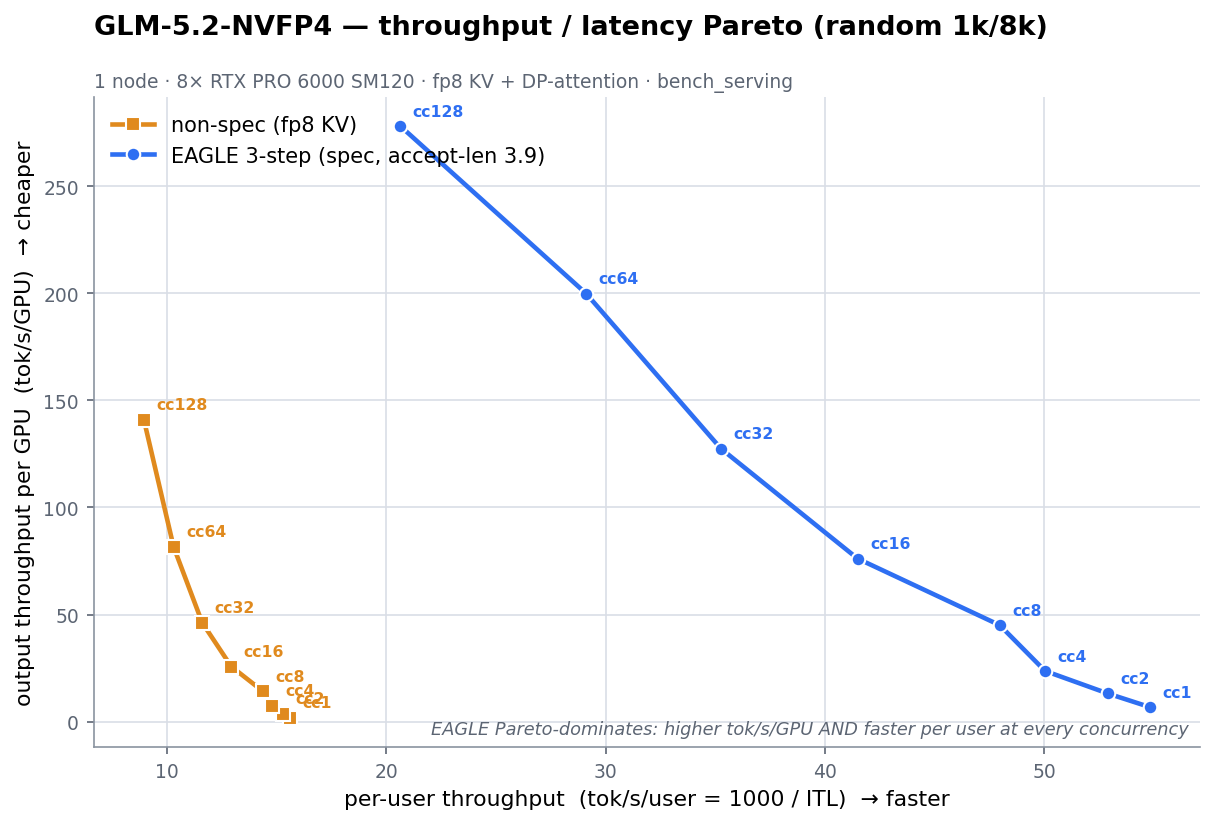
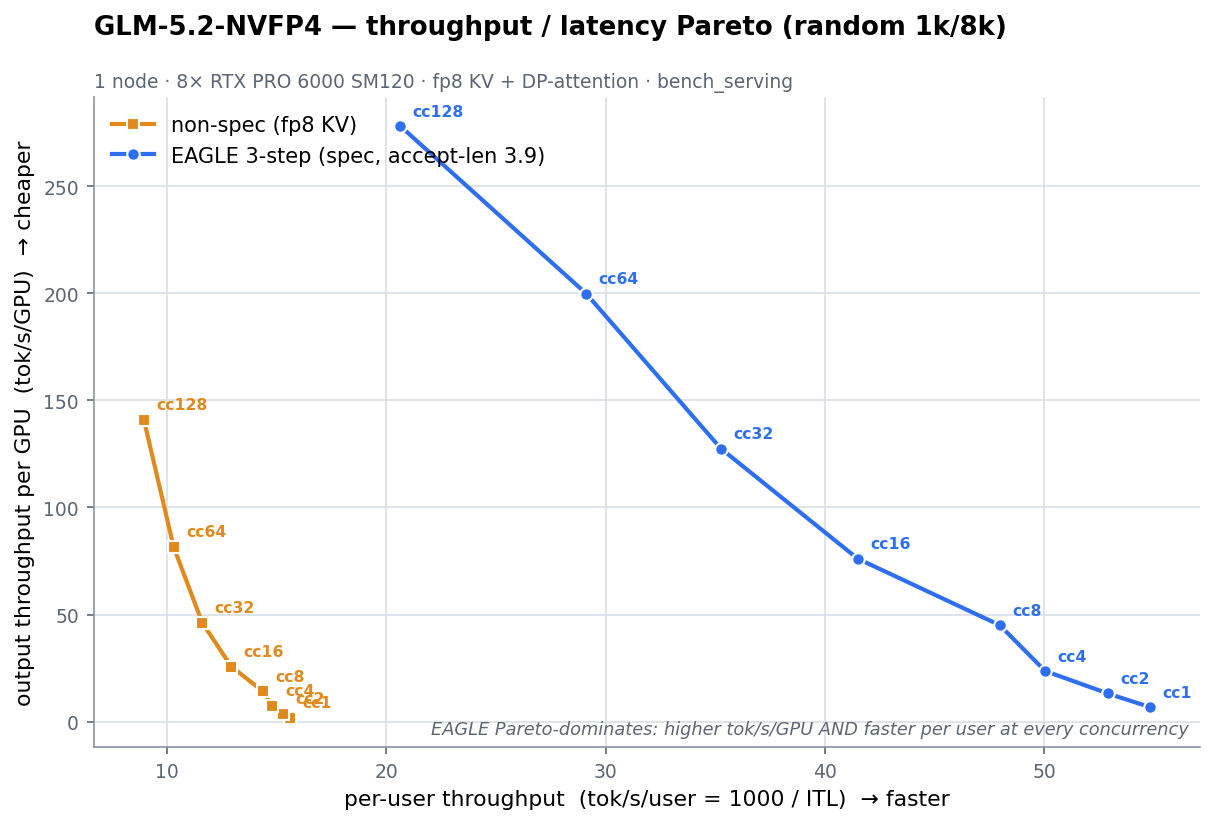
models/GLM5.2: complete the zipfian 2x2 — add EAGLE+HiCache curve + hit-rate panel
The missing 4th curve (EAGLE 3-step + L2 HiCache, zipfian) is now collected (node-4,
10/10 cc rows, no OOM). Full {non-spec, EAGLE} x {radix-L1, +HiCache} sweep.

Finding: L2 HiCache barely shifts throughput (decode-bound at OSL=8192) but lifts the
prefix hit-rate where L1 evicts under load — EAGLE +19 pts (36%->55%) at cc256/512,
non-spec +6 pts. radix L1 suffices for 1k/8k; L2 only helps if the distinct-prefix
working set overflows the GPU radix tree.

Adds hitrate_zipfian_1k8k.png; updates pareto_zipfian_1k8k.png to 4 curves; plot_pareto.py,
concurrency-sweep.md (EAGLE+HiCache table + hit-rate analysis), README HiCache takeaway.

diff --git a/models/GLM5.2/results/plot_pareto.py b/models/GLM5.2/results/plot_pareto.py
@@ -11,7 +11,6 @@ import matplotlib.pyplot as plt
 
 SPEC = "#2E6FF2"   # EAGLE (speculative)
 BASE = "#E08A1E"   # non-spec
-HC   = "#1FA88F"   # +HiCache
 GRID = "#D9DEE6"
 
 def tsu(itl):  # tokens/s/user from mean ITL (ms)
@@ -24,58 +23,83 @@ NS_ITL = [64.16,65.43,67.58,69.71,77.41,86.26,97.22,112.0]
 EA_T   = [6.83,13.17,23.68,45.02,76.13,127.45,199.79,277.97]
 EA_ITL = [18.24,18.90,19.98,20.84,24.10,28.36,34.35,48.47]
 
-# ---- Zipfian shared-prefix, cc 1..512 ----
-Z_CC    = [1,2,4,8,16,32,64,128,256,512]
-ZNS_T   = [2.37,4.62,8.13,17.54,31.21,56.17,98.92,132.73,145.25,166.34]
-ZNS_ITL = [52.76,54.04,55.40,56.86,63.84,70.90,80.31,91.88,136.52,160.05]
-ZHC_T   = [2.36,4.60,8.10,17.53,31.58,57.52,99.30,133.45,147.15,171.09]
-ZHC_ITL = [52.88,54.27,55.61,56.87,63.05,69.20,79.97,92.10,135.59,157.41]
-ZEA_T   = [8.1,14.69,27.1,53.79,90.08,157.2,142.03,128.75,125.93,121.31]
-ZEA_ITL = [15.31,16.58,16.82,16.98,19.98,23.84,42.16,73.75,124.46,140.68]
+# ---- Zipfian shared-prefix, cc 1..512 (4 curves: {non-spec, EAGLE} x {radix-L1, +L2 HiCache}) ----
+Z_CC     = [1,2,4,8,16,32,64,128,256,512]
+ZNS_T    = [2.37,4.62,8.13,17.54,31.21,56.17,98.92,132.73,145.25,166.34]
+ZNS_ITL  = [52.76,54.04,55.40,56.86,63.84,70.90,80.31,91.88,136.52,160.05]
+ZNS_HIT  = [55.8,14.0,28.2,28.0,31.5,42.0,44.2,46.0,57.1,60.1]
+ZHC_T    = [2.36,4.60,8.10,17.53,31.58,57.52,99.30,133.45,147.15,171.09]
+ZHC_ITL  = [52.88,54.27,55.61,56.87,63.05,69.20,79.97,92.10,135.59,157.41]
+ZHC_HIT  = [0.0,14.07,28.04,28.07,31.21,42.0,44.21,46.93,64.41,65.87]
+ZEA_T    = [8.1,14.69,27.1,53.79,90.08,157.2,142.03,128.75,125.93,121.31]
+ZEA_ITL  = [15.31,16.58,16.82,16.98,19.98,23.84,42.16,73.75,124.46,140.68]
+ZEA_HIT  = [0.0,14.0,28.2,28.1,31.4,36.0,35.5,37.4,36.2,36.6]
+ZEAH_T   = [7.97,15.91,27.16,56.09,99.57,132.18,141.06,137.86,125.50,127.33]
+ZEAH_ITL = [15.57,15.58,16.50,16.97,19.09,25.26,41.06,67.49,123.67,134.53]
+ZEAH_HIT = [0.0,13.98,27.96,27.89,31.49,42.16,43.07,42.58,55.66,54.83]
 
-def style(ax, title, sub):
+def style(ax, title, sub, xlabel, ylabel):
     ax.set_facecolor("white")
     ax.grid(True, color=GRID, lw=0.8, zorder=0)
     for s in ("top","right"): ax.spines[s].set_visible(False)
     for s in ("left","bottom"): ax.spines[s].set_color("#8A93A0")
-    ax.set_xlabel("per-user throughput  (tok/s/user = 1000 / ITL)  → faster", fontsize=10.5)
-    ax.set_ylabel("output throughput per GPU  (tok/s/GPU)  → cheaper", fontsize=10.5)
-    ax.set_title(title, fontsize=13, fontweight="bold", loc="left", pad=30)
+    ax.set_xlabel(xlabel, fontsize=10.5)
+    ax.set_ylabel(ylabel, fontsize=10.5)
+    ax.set_title(title, fontsize=12.5, fontweight="bold", loc="left", pad=30)
     ax.text(0, 1.015, sub, transform=ax.transAxes, fontsize=9, color="#5C6573")
     ax.tick_params(colors="#5C6573", labelsize=9)
 
 def curve(ax, x, y, cc, color, label, marker="o", ls="-", lbl_idx=None):
-    ax.plot(x, y, ls=ls, color=color, lw=2.2, marker=marker, ms=6.5, mfc=color,
+    ax.plot(x, y, ls=ls, color=color, lw=2.0, marker=marker, ms=6.0, mfc=color,
             mec="white", mew=1.0, label=label, zorder=4)
     if lbl_idx is None: lbl_idx = range(len(cc))
     for i in lbl_idx:
         ax.annotate(f"cc{cc[i]}", (x[i], y[i]), textcoords="offset points",
                     xytext=(6,5), fontsize=7.5, color=color, fontweight="bold")
 
+XL = "per-user throughput  (tok/s/user = 1000 / ITL)  → faster"
+YL = "output throughput per GPU  (tok/s/GPU)  → cheaper"
+
 # ===== Figure 1: random 1k/8k — non-spec vs EAGLE =====
 fig, ax = plt.subplots(figsize=(8.2,5.6), dpi=150)
 style(ax, "GLM-5.2-NVFP4 — throughput / latency Pareto (random 1k/8k)",
-      "1 node · 8× RTX PRO 6000 SM120 · fp8 KV + DP-attention · bench_serving")
+      "1 node · 8× RTX PRO 6000 SM120 · fp8 KV + DP-attention · bench_serving", XL, YL)
 curve(ax, tsu(NS_ITL), NS_T, R_CC, BASE, "non-spec (fp8 KV)", marker="s")
 curve(ax, tsu(EA_ITL), EA_T, R_CC, SPEC, "EAGLE 3-step (spec, accept-len 3.9)", marker="o")
 ax.legend(loc="upper left", frameon=False, fontsize=10)
 ax.text(0.99, 0.02, "EAGLE Pareto-dominates: higher tok/s/GPU AND faster per user at every concurrency",
         transform=ax.transAxes, ha="right", fontsize=8.5, color="#5C6573", style="italic")
-fig.tight_layout()
-fig.savefig("pareto_random_1k8k.png", bbox_inches="tight", facecolor="white")
+fig.tight_layout(); fig.savefig("pareto_random_1k8k.png", bbox_inches="tight", facecolor="white")
 print("wrote pareto_random_1k8k.png")
 
-# ===== Figure 2: zipfian shared-prefix — radix vs +HiCache vs EAGLE =====
+# ===== Figure 2: zipfian shared-prefix — 4 curves (paired by config color, cache = solid/dashed) =====
 fig, ax = plt.subplots(figsize=(8.2,5.6), dpi=150)
-style(ax, "GLM-5.2-NVFP4 — Pareto on zipfian shared-prefix (radix vs +HiCache)",
-      "1 node · SM120 · zipf α=1.1 · mfs0.92 · cc 1→512 · bench_serving")
-lab = [0,3,5,7,9]  # label cc 1,8,32,128,512
-curve(ax, tsu(ZNS_ITL), ZNS_T, Z_CC, BASE, "non-spec · radix L1 only", marker="s", lbl_idx=lab)
-curve(ax, tsu(ZHC_ITL), ZHC_T, Z_CC, HC,   "non-spec · + L2 HiCache", marker="^", ls="--", lbl_idx=[9])
-curve(ax, tsu(ZEA_ITL), ZEA_T, Z_CC, SPEC, "EAGLE 3-step · radix L1", marker="o", lbl_idx=lab)
-ax.legend(loc="upper right", frameon=False, fontsize=10)
-ax.text(0.01, 0.02, "L2 HiCache adds ~3% over radix-L1; EAGLE peaks mid-cc then queue-degrades at high load",
+style(ax, "GLM-5.2-NVFP4 — Pareto on zipfian shared-prefix (radix L1 vs + L2 HiCache)",
+      "1 node · SM120 · zipf α=1.1 · mfs0.92 · cc 1→512 · solid = radix L1, dashed = + HiCache", XL, YL)
+lab = [0,5,9]  # label cc 1, 32, 512
+curve(ax, tsu(ZNS_ITL),  ZNS_T,  Z_CC, BASE, "non-spec · radix L1",   marker="s", ls="-",  lbl_idx=lab)
+curve(ax, tsu(ZHC_ITL),  ZHC_T,  Z_CC, BASE, "non-spec · + HiCache",  marker="^", ls="--", lbl_idx=[])
+curve(ax, tsu(ZEA_ITL),  ZEA_T,  Z_CC, SPEC, "EAGLE · radix L1",      marker="o", ls="-",  lbl_idx=lab)
+curve(ax, tsu(ZEAH_ITL), ZEAH_T, Z_CC, SPEC, "EAGLE · + HiCache",     marker="D", ls="--", lbl_idx=[])
+ax.legend(loc="upper right", frameon=False, fontsize=9.5)
+ax.text(0.01, 0.02, "HiCache barely shifts throughput (decode-bound); its win is hit-rate — see the next panel",
         transform=ax.transAxes, ha="left", fontsize=8.5, color="#5C6573", style="italic")
-fig.tight_layout()
-fig.savefig("pareto_zipfian_1k8k.png", bbox_inches="tight", facecolor="white")
+fig.tight_layout(); fig.savefig("pareto_zipfian_1k8k.png", bbox_inches="tight", facecolor="white")
 print("wrote pareto_zipfian_1k8k.png")
+
+# ===== Figure 3: zipfian cache hit-rate vs concurrency (the actual HiCache effect) =====
+fig, ax = plt.subplots(figsize=(8.2,5.0), dpi=150)
+style(ax, "GLM-5.2-NVFP4 — zipfian prefix cache hit-rate vs concurrency",
+      "L2 HiCache (dashed) keeps the hit-rate up where the L1 radix tree evicts under load",
+      "client concurrency (log)", "prefix cache hit-rate  (%)")
+ax.set_xscale("log", base=2)
+ax.plot(Z_CC, ZNS_HIT,  color=BASE, ls="-",  marker="s", lw=2.0, ms=6, mec="white", label="non-spec · radix L1")
+ax.plot(Z_CC, ZHC_HIT,  color=BASE, ls="--", marker="^", lw=2.0, ms=6, mec="white", label="non-spec · + HiCache")
+ax.plot(Z_CC, ZEA_HIT,  color=SPEC, ls="-",  marker="o", lw=2.0, ms=6, mec="white", label="EAGLE · radix L1")
+ax.plot(Z_CC, ZEAH_HIT, color=SPEC, ls="--", marker="D", lw=2.0, ms=6, mec="white", label="EAGLE · + HiCache")
+ax.set_xticks(Z_CC); ax.set_xticklabels([str(c) for c in Z_CC])
+ax.legend(loc="upper left", frameon=False, fontsize=9.5)
+ax.annotate("L2 lifts EAGLE +19 pts", (256, 55.66), textcoords="offset points", xytext=(-8,12),
+            fontsize=8.5, color=SPEC, fontweight="bold")
+fig.tight_layout(); fig.savefig("hitrate_zipfian_1k8k.png", bbox_inches="tight", facecolor="white")
+print("wrote hitrate_zipfian_1k8k.png")

diff --git a/models/GLM5.2/results/concurrency-sweep.md b/models/GLM5.2/results/concurrency-sweep.md
@@ -69,14 +69,32 @@ EAGLE on the cache workload **peaks at cc≈32 (157 tok/s/GPU) then declines** a
 
 > Note: the zipfian throughput values are `bench_serving` whole-run averages on the small per-cc prompt counts (ramp/drain included) and run at mfs0.92, so they sit below the headline max-batch/steady-state SOTA numbers (194.6 / 300) — they characterize *scaling shape and the cache effect*, not the peak.
 
-### 2d. Zipfian Pareto
+### 2c. EAGLE + L2 HiCache (the 4th curve)
 
-y = tok/s/GPU, x = per-user tok/s. The non-spec radix-L1 (squares) and +HiCache (triangles) curves nearly coincide — the ~3% L2 gain is barely visible. EAGLE (circles) is up-and-right at low-to-mid cc, then folds back down-left past cc≈32 as TTFT/queue degrade:
+| cc | tok/s/GPU | cache hit% | accept-len | ITL ms | TTFT ms |
+|---:|---:|---:|---:|---:|---:|
+| 1   | 7.97   | 0.0  | 3.98 | 15.6 | 960 |
+| 2   | 15.91  | 14.0 | 3.99 | 15.6 | 925 |
+| 4   | 27.16  | 28.0 | 3.97 | 16.5 | 978 |
+| 8   | 56.09  | 27.9 | 3.82 | 17.0 | 1,360 |
+| 16  | 99.57  | 31.5 | 3.95 | 19.1 | 2,186 |
+| 32  | 132.18 | 42.2 | 3.82 | 25.3 | 2,808 |
+| 64  | **141.06** | 43.1 | 3.89 | 41.1 | 63,752 |
+| 128 | 137.86 | 42.6 | 3.91 | 67.5 | 234,544 |
+| 256 | 125.50 | **55.7** | 3.92 | 123.7 | 256,655 |
+| 512 | 127.33 | **54.8** | 3.91 | 134.5 | 206,035 |
 
-![Zipfian Pareto — radix vs +HiCache vs EAGLE](pareto_zipfian_1k8k.png)
+### 2d. Zipfian Pareto + cache hit-rate (all 4 curves)
 
-### 2c. EAGLE + HiCache — NOT RUN
-The 4th curve (EAGLE + L2 HiCache, zipfian) did not execute — the node-4 sequential A→B handoff didn't fire after the non-spec+HiCache sweep. Launch scripts are staged at `node-4:~/glm52_runs/zipfsweepv2_eagle_HC/`; re-run to complete the 2×2. Given (2a) showed L2 adds ~3% on non-spec, the expected EAGLE+HiCache delta over EAGLE+radix-L1 is similarly small.
+y = tok/s/GPU, x = per-user tok/s; solid = radix L1, dashed = + L2 HiCache. Within each config the radix-L1 and +HiCache curves nearly coincide — **HiCache barely shifts throughput** (this 8192-output workload is decode-bound, not prefill-bound). EAGLE peaks mid-cc then folds back as TTFT/queue degrade.
+
+![Zipfian Pareto — 4 curves](pareto_zipfian_1k8k.png)
+
+**Where L2 HiCache actually earns its keep is the hit-rate**, not throughput. As concurrency rises, the active decode KV evicts prefixes from the GPU radix tree (L1); the L2 host tier retains them:
+
+![Zipfian cache hit-rate vs concurrency](hitrate_zipfian_1k8k.png)
+
+L1 and L2 track together up to cc≈64 (the working set fits L1). Past cc=128 the radix-L1-only curves plateau (~36% EAGLE, ~46→60% non-spec) while the +HiCache curves climb — **L2 lifts EAGLE's hit rate from ~36% to ~55% at cc256/512 (+19 pts)** (EAGLE's smaller draft+verify pool evicts L1 sooner, so it benefits most). Non-spec sees a smaller +6 pts. The hit-rate gain does **not** translate to a large throughput win here (EAGLE+HiCache ~1,003–1,019 vs EAGLE-radix ~970–1,007 agg at cc256/512) because the bottleneck at OSL=8192 is decode-generated KV, which caching cannot dedup.
 
 ---
 

diff --git a/models/GLM5.2/README.md b/models/GLM5.2/README.md
@@ -34,7 +34,7 @@ Throughput per GPU vs per-user token rate (y = tok/s/GPU, x = tok/s/user = 1000/
 ![GLM-5.2 throughput/latency Pareto — EAGLE vs non-spec (random 1k/8k)](results/pareto_random_1k8k.png)
 
 - **Random 1k/8k (no cache):** EAGLE Pareto-dominates non-spec at *every* concurrency — higher tok/s/GPU and lower ITL simultaneously (cc 1→128).
-- **Zipfian shared-prefix (radix vs +HiCache):** with shared prefixes the **GPU radix cache (L1) already captures most of the reuse**; adding the **L2 HiCache host tier is only ~+3%** on top (166 → 171 tok/s/GPU at cc=512), confirming L2 is largely redundant for this 1k/8k shape — the cache benefit is a prefill/TTFT win, and it can't dedup the decode-generated KV that bounds high-concurrency throughput.
+- **Zipfian shared-prefix (full 2×2 — {non-spec, EAGLE} × {radix-L1, +L2 HiCache}):** the GPU radix cache (L1) already captures the prefix reuse, so **L2 HiCache barely shifts throughput** (~+3% non-spec; EAGLE ~flat). Its real effect is **hit-rate**: past cc=128 the active decode KV evicts L1 prefixes, and the L2 host tier retains them — **L2 lifts EAGLE's hit-rate from ~36% to ~55% at cc256/512 (+19 pts)** (EAGLE's smaller pool evicts L1 sooner). But the higher hit-rate doesn't convert to throughput at OSL=8192 — the bottleneck is decode-generated KV, which caching can't dedup. **Takeaway: radix L1 is sufficient for 1k/8k; enable L2 HiCache only if your distinct-prefix working set overflows the GPU radix tree.**
 
 ## Correctness (gsm8k, the working recipes)
 | Config | gsm8k | note |